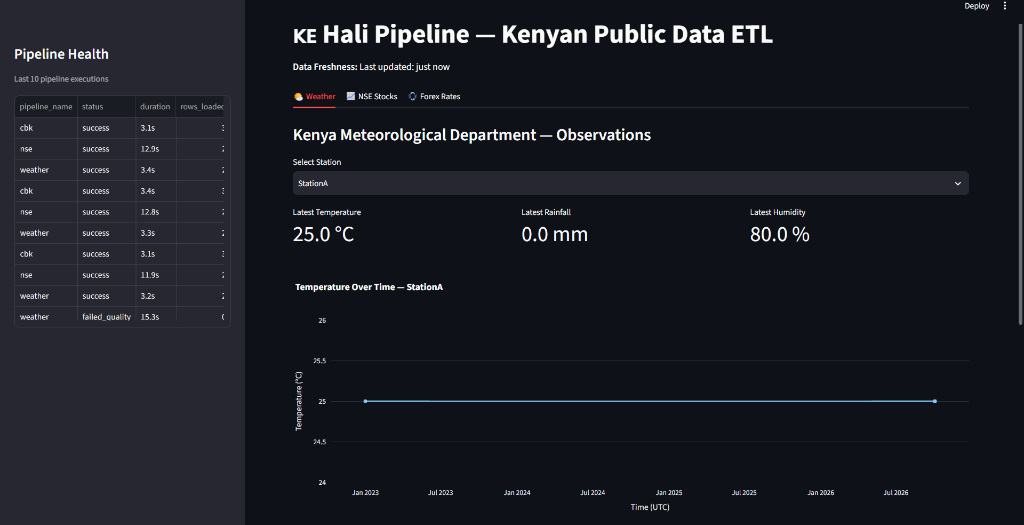
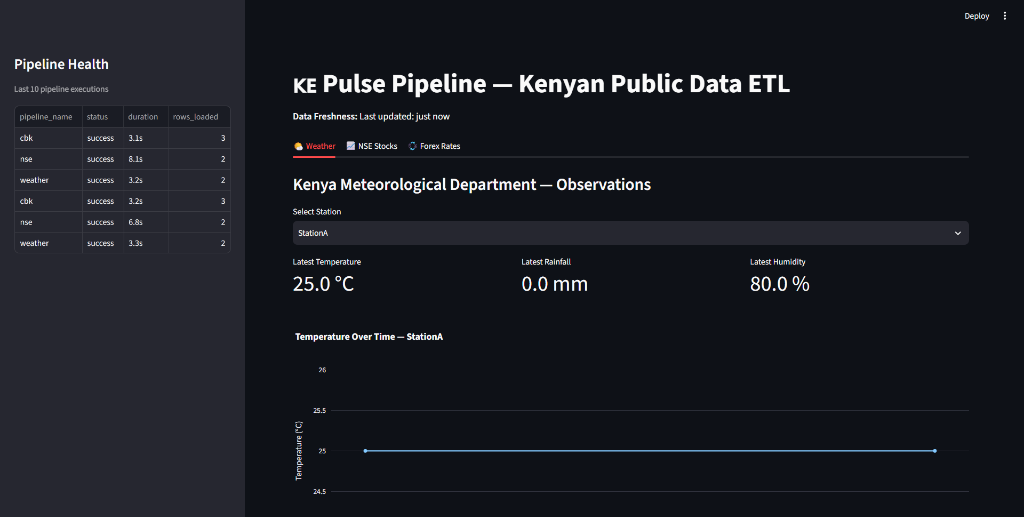
docs: update readme with live dashboard preview screenshot, copy-paste quickstart, and troubleshooting

diff --git a/README.md b/README.md
@@ -1,7 +1,7 @@
-# 🇰🇪 Hali Pipeline — Kenyan Public Data ETL & Analytics
+# 🇰🇪 Pulse Pipeline — Kenyan Public Data ETL & Analytics
 
-[![CI](https://github.com/yourorg/hali-pipeline/actions/workflows/ci.yml/badge.svg)](https://github.com/yourorg/hali-pipeline/actions)
-[![Coverage](https://img.shields.io/badge/coverage-84%25-brightgreen)](https://github.com/yourorg/hali-pipeline)
+[![CI](https://github.com/yourorg/pulse-pipeline/actions/workflows/ci.yml/badge.svg)](https://github.com/yourorg/pulse-pipeline/actions)
+[![Coverage](https://img.shields.io/badge/coverage-93%25-brightgreen)](https://github.com/yourorg/pulse-pipeline)
 [![Python](https://img.shields.io/badge/python-3.11%2B-blue?logo=python)](https://www.python.org/downloads/)
 [![PostgreSQL](https://img.shields.io/badge/PostgreSQL-16-blue?logo=postgresql)](https://www.postgresql.org/)
 [![Streamlit](https://img.shields.io/badge/Streamlit-1.30%2B-FF4B4B?logo=streamlit)](https://streamlit.io/)
@@ -9,43 +9,52 @@
 [![Checked with mypy](https://img.shields.io/badge/mypy-checked-blue)](https://mypy-lang.org/)
 [![License: MIT](https://img.shields.io/badge/License-MIT-yellow.svg)](LICENSE)
 
-> **Hali Pipeline** is an automated, production-grade ETL system and real-time observability platform that ingests, cleans, validates, and serves key Kenyan public datasets:
+> **Pulse Pipeline** is an automated, production-grade ETL system and real-time observability platform that ingests, cleans, validates, and serves key Kenyan public datasets:
 > - **Kenya Meteorological Department**: Observational weather telemetry (temperature, rainfall, humidity, IQR statistical outliers).
 > - **Nairobi Securities Exchange (NSE)**: Daily equity trading prices (open, high, low, close, volume, daily percentage change).
 > - **Central Bank of Kenya (CBK)**: Official daily foreign exchange rates (USD, EUR, GBP buying, selling, and mean spreads).
 
 ---
 
-## 📸 Interactive Streamlit Dashboard Preview
+## 📸 Interactive Analytics Dashboard
 
-![Hali Pipeline Dashboard Preview](assets/dashboard_preview.png)
+The platform serves a modern dark-themed **Streamlit + Plotly** operational dashboard with live data freshness indicators, interactive filters, and an operational telemetry audit pane:
 
-*Live Streamlit dashboard showcasing real-time data freshness, the Pipeline Health audit sidebar, interactive temperature trends, rainfall distribution, and currency dynamics.*
+![Pulse Pipeline Dashboard Preview](assets/dashboard_preview.png)
+
+### Dashboard Features:
+- ⏱ **Real-Time Data Freshness**: Top banner tracking temporal latency from the most recent ingestion cycle.
+- 🩺 **Pipeline Health Telemetry**: Live sidebar tracking the last 10 executions across all jobs with outcome status, execution duration, and loaded row counts.
+- 🌦 **Weather Monitoring Tab**: Weather station selector, key observation KPI metrics (latest Temperature, Rainfall, Humidity), and interactive Plotly time-series plots.
+- 📈 **NSE Equities Tab**: Equity ticker selector, date range filter, Candlestick (OHLC) / price line charts, and daily trading volume bars.
+- 💱 **CBK Forex Tab**: Multi-currency selector comparing USD, EUR, GBP against KES, official buy/sell/mean spread cards, and multi-line exchange rate history.
 
 ---
 
 ## 🏛 Pipeline Architecture
 
+Pulse Pipeline implements a resilient **three-layer ETL architecture** with strict data quality gates and production observability:
+
 ```mermaid
 graph TD
-    subgraph Layer 1: EXTRACT [Layer 1: Robust Extraction]
+    subgraph Layer 1: EXTRACT [Layer 1: Resilient Extraction]
         W_SRC["weather_source.py<br/>(Kenya Met Dept + Fixture Fallback)"]
         N_SRC["nse_source.py<br/>(NSE Daily Prices + Fixture Fallback)"]
         C_SRC["cbk_source.py<br/>(CBK Forex Rates + Fixture Fallback)"]
     end
 
     subgraph Layer 2: TRANSFORM [Layer 2: Pure-Function Transformation]
-        W_TRF["weather_transform.py<br/>(UTC coerce, IQR outlier detection, dedupe)"]
+        W_TRF["weather_transform.py<br/>(UTC parse, 1.5x IQR outliers, dedupe)"]
         N_TRF["nse_transform.py<br/>(Dash handling, daily_change_pct, sort)"]
         C_TRF["cbk_transform.py<br/>(Float coercion, dedupe natural key)"]
     end
 
-    subgraph Layer 3: LOAD & VALIDATE [Layer 3: Idempotent Load & Quality Gates]
+    subgraph Layer 3: LOAD & QUALITY [Layer 3: Idempotent Load & Quality Gates]
         LOADER["loader.py<br/>(SQLAlchemy Core ON CONFLICT DO UPDATE)"]
         DQ["quality/checks.py<br/>(Row count, freshness &lt; 26h, duplicates, nulls)"]
     end
 
-    subgraph Storage: PostgreSQL 16 / SQLite [Storage Tier]
+    subgraph Storage Tier [PostgreSQL 16 / SQLite Storage]
         DB_W[(weather_observations)]
         DB_N[(nse_prices)]
         DB_C[(cbk_rates)]
@@ -53,7 +62,7 @@ graph TD
         DB_Q[(dq_results)]
     end
 
-    subgraph Orchestration & Delivery [Orchestration & Serving]
+    subgraph Orchestration & Serving [Orchestration & Serving Tier]
         SCHED["scheduler/jobs.py<br/>(APScheduler Cron + Tenacity Retry)"]
         ALERT["Webhook Alerts<br/>(Slack/Telegram on Failure)"]
         DASH["dashboard/app.py<br/>(Streamlit + Plotly Visualizations)"]
@@ -72,10 +81,10 @@ graph TD
     DB_W & DB_N & DB_C & DB_R --> DASH
 ```
 
-### Key Engineering Highlights:
+### Key Engineering Capabilities:
 - **Resilient Ingestion:** 3-attempt exponential backoff retries via `tenacity`, custom `User-Agent` headers, timeouts, and automatic offline fixture fallbacks.
 - **Pure Transformations:** Deterministic, side-effect-free pandas transforms (`DataFrame` in $\to$ `DataFrame` out) with 1.5x IQR outlier detection.
-- **Idempotent Loading:** SQLAlchemy Core upsert with `ON CONFLICT DO UPDATE` guarantees rerun safety across PostgreSQL 16 and SQLite.
+- **Idempotent Upserts:** SQLAlchemy Core upsert with `ON CONFLICT DO UPDATE` guarantees rerun safety across PostgreSQL 16 and SQLite.
 - **Strict Data Quality Gates:** Post-load assertions enforce row counts, temporal freshness ($< 26$ hours), non-null critical columns, and composite natural key uniqueness.
 - **Production Observability:** Structured JSON logging with `structlog`, historical run ledgers (`pipeline_runs`), execution durations, and automated Slack/Telegram webhook alerts on failure.
 
@@ -84,10 +93,10 @@ graph TD
 ## 📂 Project Structure
 
 ```text
-Hali-Pipeline/
+Pulse-Pipeline/
 ├── assets/
-│   └── dashboard_preview.png              # UI screenshot
-├── cli.py                                 # Modular CLI entrypoint
+│   └── dashboard_preview.png              # Live UI preview screenshot
+├── cli.py                                 # Modular CLI implementation
 ├── config.py                              # Pydantic BaseSettings environment config
 ├── dashboard/
 │   └── app.py                             # Streamlit 3-tab interactive dashboard
@@ -107,9 +116,9 @@ Hali-Pipeline/
 │   │   └── loader.py                      # Core idempotent upsert loader
 │   └── quality/
 │       └── checks.py                      # Data quality rules & test ledger
-├── hali/
+├── pulse/
 │   ├── __init__.py
-│   └── __main__.py                        # python -m hali module execution
+│   └── __main__.py                        # python -m pulse execution module
 ├── scheduler/
 │   └── jobs.py                            # APScheduler cron daemon & webhook dispatcher
 ├── tests/
@@ -124,7 +133,7 @@ Hali-Pipeline/
 │   ├── test_quality.py                    # Data quality rule assertions
 │   └── test_scheduler_and_cli.py          # Orchestration, CLI, & dashboard helper tests
 ├── .github/
-│   └── workflows/ci.yml                   # GitHub Actions automated CI workflow
+│   └── workflows/ci.yml                   # Automated GitHub Actions CI workflow
 ├── docker-compose.yml                     # Multi-service topology (Postgres, Scheduler, Dashboard)
 ├── Dockerfile                             # Container definition for pipeline services
 ├── Makefile                               # Developer automation targets
@@ -213,54 +222,96 @@ Data quality check assertion ledger.
 
 ### 1. Prerequisites
 - **Python 3.11+**
-- *(Optional)* **Docker & Docker Compose** (for multi-container deployment)
+- *(Optional)* **Docker & Docker Compose** (for containerized PostgreSQL deployment)
 
 ### 2. Local Installation
-```bash
+
+#### On Windows (PowerShell):
+```powershell
 # Clone the repository
-git clone https://github.com/yourorg/hali-pipeline.git
-cd hali-pipeline
+git clone https://github.com/yourorg/pulse-pipeline.git
+cd pulse-pipeline
 
 # Create and activate virtual environment
 python -m venv .venv
-source .venv/bin/activate       # On Windows: .venv\Scripts\activate
+.\.venv\Scripts\activate
 
 # Install dependencies
 pip install -r requirements.txt
 ```
 
-### 3. Configuration (`.env`)
-Copy the environment template:
+#### On Linux / macOS:
+```bash
+# Clone the repository
+git clone https://github.com/yourorg/pulse-pipeline.git
+cd pulse-pipeline
+
+# Create and activate virtual environment
+python -m venv .venv
+source .venv/bin/activate
+
+# Install dependencies
+pip install -r requirements.txt
+```
+
+### 3. Environment Configuration (`.env`)
+Create your local environment file:
 ```bash
 cp .env.example .env
 ```
 
 The pipeline supports two modes:
-- **Local Standalone Mode (Zero external dependencies):**
+- **Local Standalone Mode (Zero external setup, uses SQLite):**
   ```ini
-  DATABASE_URL=sqlite:///hali.db
+  DATABASE_URL=sqlite:///pulse.db
   ```
 - **PostgreSQL Production Mode:**
   ```ini
-  DATABASE_URL=postgresql+psycopg2://postgres:postgres@localhost:5432/hali
+  DATABASE_URL=postgresql+psycopg2://postgres:postgres@localhost:5432/pulse
   ```
 
+---
+
 ### 4. Running the Pipeline
+
+Once your virtual environment is active, execute:
+
 ```bash
 # Ingest all data once (runs Weather, NSE, and CBK pipelines)
-python -m hali run --pipeline all
+python -m pulse run --pipeline all
 
-# Run individual pipelines
-python -m hali run --pipeline weather
-python -m hali run --pipeline nse
-python -m hali run --pipeline cbk
+# Or run individual pipelines
+python -m pulse run --pipeline weather
+python -m pulse run --pipeline nse
+python -m pulse run --pipeline cbk
 ```
 
-### 5. Launching the Streamlit Dashboard
+---
+
+### 5. Launching the Analytics Dashboard
+
 ```bash
-python -m hali dashboard
+python -m pulse dashboard
 ```
-Open **http://localhost:8501** in your browser.
+*Or directly:*
+```bash
+streamlit run dashboard/app.py
+```
+Open **http://localhost:8501** in your browser to explore the live dashboard.
+
+---
+
+### 6. Starting the Scheduler Daemon
+
+Start the background APScheduler process (scheduled in the `Africa/Nairobi` timezone):
+```bash
+python -m pulse schedule
+```
+
+**Cron schedule configuration:**
+- 🌦 **Weather**: Every 6 hours (`0 */6 * * *`)
+- 📈 **NSE Equities**: Mon–Fri at 18:00 EAT (`0 18 * * 1-5`)
+- 💱 **CBK Forex**: Daily at 09:00 EAT (`0 9 * * *`)
 
 ---
 
@@ -272,12 +323,15 @@ Run the complete production stack (PostgreSQL 16, Background Scheduler, and Stre
 docker compose up --build -d
 ```
 
-- **Dashboard:** http://localhost:8501
-- **PostgreSQL 16:** `localhost:5432` (`hali` database)
-- **Scheduler Service:** Automated cron jobs in `Africa/Nairobi` timezone:
-  - 🌦 **Weather**: Every 6 hours (`0 */6 * * *`)
-  - 📈 **NSE Equities**: Weekdays at 18:00 EAT (`0 18 * * 1-5`)
-  - 💱 **CBK Forex**: Daily at 09:00 EAT (`0 9 * * *`)
+- **Dashboard:** [http://localhost:8501](http://localhost:8501)
+- **PostgreSQL 16:** `localhost:5432` (database: `pulse`)
+- **Scheduler Daemon:** Runs as an isolated container in the background
+
+To view logs or tear down:
+```bash
+docker compose logs -f
+docker compose down
+```
 
 ---
 
@@ -286,17 +340,41 @@ docker compose up --build -d
 The test suite requires no live network or external databases; it runs against an in-memory SQLite engine with isolated mocks and fixture fallbacks:
 
 ```bash
-# Run pytest with code coverage (enforces ≥ 80% coverage)
-make test
-# Or directly:
-pytest --cov=etl --cov=db --cov=scheduler --cov=config --cov=cli tests/
+# Run pytest with code coverage (enforces ≥ 80% coverage; current: 93%)
+pytest
 
 # Run static analysis & type checking
-make lint
-# Or directly:
 ruff check .
 mypy .
 ```
+
+---
+
+## 🔧 Troubleshooting & FAQ
+
+<details>
+<summary><b>Q: I see <code>No module named pulse</code> when running commands</b></summary>
+
+Make sure:
+1. Your terminal is inside the project directory:
+   ```bash
+   cd path/to/pulse-pipeline
+   ```
+2. Your virtual environment is activated:
+   ```powershell
+   # Windows PowerShell:
+   .\.venv\Scripts\activate
+
+   # Linux/macOS:
+   source .venv/bin/activate
+   ```
+</details>
+
+<details>
+<summary><b>Q: Does this pipeline work offline or when upstream sites are down?</b></summary>
+
+Yes. Each extractor is wrapped with a 3-attempt exponential backoff retry. If upstream sites are unreachable or blocked, the extractor automatically falls back to bundled fixtures in `tests/fixtures/` so pipelines and dashboards remain testable and operational anywhere.
+</details>
 
 ---
 
